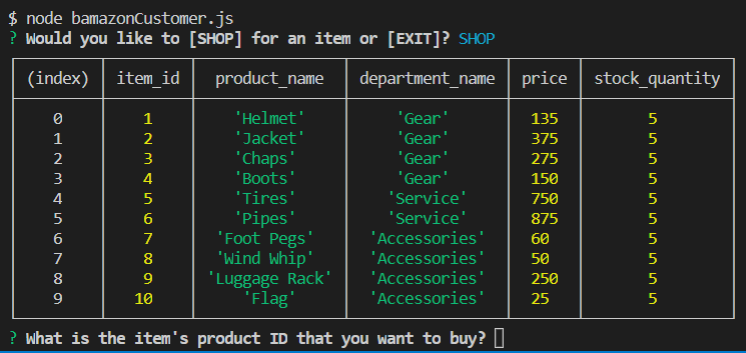
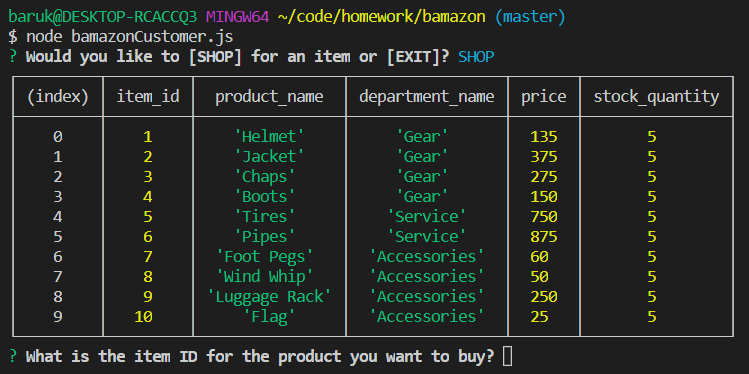
adding final version

Changed region(s): [[0.0, 0.0, 1.0, 1.0], [0.0617, 0.3116, 0.0925, 0.7479]]

diff --git a/bamazonCustomer.js b/bamazonCustomer.js
@@ -52,7 +52,7 @@ function queryItems() {
                 {
                     name: "item",
                     type: "input",
-                    message: "What is the item's product ID that you want to buy?"
+                    message: "What is the item ID for the product you want to buy?"
                 },
                 {
                     name: "quantity",
@@ -75,8 +75,6 @@ function queryItems() {
                     }
                 }
 
-                // console.log(chosenItem);
-
                 // This determines if product quantity is sufficient:
                 if (chosenItem.stock_quantity >= parseInt(answer.quantity)) {
                     // If product quantity is sufficient, this updates the db, notifies the user of successful order placement, then starts over:
@@ -96,11 +94,10 @@ function queryItems() {
                             start();
                         }
                     );
-                    // console.log(query.sql);
                 }
                 else {
                     // If insufficient product quantity, then this notifies the user of insufficient product quantity, apologizes, then starts over:
-                    console.log("We're sorry. Insufficient product quantity. Please select another item.");
+                    console.log("We're sorry. This item is currently out of stock. Please select another item.");
                     // This re-prompts the user to shop or exit:
                     start();
                 }

diff --git a/README.md b/README.md
@@ -1,32 +1,57 @@
 # Node.js & MySQL
 
-### Challenge #1: Customer View (Minimum Requirement)
+### Challenge #1: Customer View
+
 
 ### Overview
 
-In this assignment, I created an Amazon-like storefront CLI (command-line interface or command language interpreter) app called `bamazon` that accepts orders from customers and depletes stock from the storefront's inventory.
+In this assignment, I created an Amazon-like store CLI (command-line interface or command language interpreter) app called `bamazon` that accepts customers' orders and depletes stock from the store's inventory.
+
 
 ### Steps Of Creation:
 
 1. I created a MySQL database called `bamazon`.
 
-2. I created a table inside of that database called `products`.
-
-3. The products table has the following five columns:
+2. In this database I created a table called `products` with the following five columns:
 
    * `item_id` (unique id for each product)
 
-   * `product_name` (name of product)
+   * `product_name`
 
    * `department_name`
 
    * `price` (cost to customer)
 
-   * `stock_quantity` (how much of the product is available in store)
+   * `stock_quantity` (how much of the product is available in the store)
 
-4. I populated this database with 10 different products. (I inserted "mock" data rows into this database and table.)
+3. I inserted "mock" data rows into this table to populate it with the following 10 motorcycle products:
 
-5. I created a Node application called `bamazonCustomer.js`. Running this application first prompts the user: `"Would you like to [SHOP] for an item or [EXIT]?"`
+   * `Helmet`
+
+   * `Jacket`
+
+   * `Chaps`
+
+   * `Boots`
+
+   * `Tires`
+
+   * `Pipes`
+
+   * `Foot Pegs`
+
+   * `Wind Whip`
+
+   * `Luggage Rack`
+
+   * `Flag`
+
+4. I created a Node application called `bamazonCustomer.js`.
+
+
+### Functionality
+
+Running the Node application `bamazonCustomer.js` first prompts the user: `"Would you like to [SHOP] for an item or [EXIT]?"`
 
 `Example: node bamazonCustomer.js`
 
@@ -34,13 +59,6 @@ In this assignment, I created an Amazon-like storefront CLI (command-line interf
 
 ![Example: ](screenshots/menu.png)
 
-   * If the user selects [SHOP], it displays all of the items available for sale with their item_ids, product names, department names, prices, and stock quantities.
-
-`Selection: SHOP`
-
-`Output:`
-
-![Example: ](screenshots/all_products.png)
 
    * If the user selects [EXIT], it exits the program.
 
@@ -50,139 +68,57 @@ In this assignment, I created an Amazon-like storefront CLI (command-line interf
 
 ![Example: ](screenshots/exit.png)
 
-6. The app then prompts the user with two messages:
 
-   * The first message asks the user, `"What is the item's product ID that you want to buy?"`
+   * If the user selects [SHOP], it displays all the items available for sale with their item id, product name, department name, price, and stock quantity.
+
+`Selection: SHOP`
+
+`Output:`
+
+![Example: ](screenshots/all_products.png)
+
+
+The app then prompts the user with two messages:
+
+   * The first message asks the user: `"What is the item ID for the product you want to buy?"`
 
 `Output:`
 
 ![Example: ](screenshots/item_to_buy_msg.png)
 
-   * The second message asks the user, `"How many do you want to buy?"`
 
-`Example Selection: Flags (item_id 10), Quantity 2`
+   * The second message asks the user: `"How many do you want to buy?"`
+
+`Example Selection: Flag (item_id 10), Buy (2)`
 
 `Output:`
 
 ![Example: ](screenshots/quantity_to_buy_msg.png)
 
-7. Once the customer has placed the order, the application checks if the storefront has enough of the product to meet the customer's request.
 
-   * If the storefront has enough of the product, the app processes the customer's order and logs the phrase `"Your order was placed successfully."`
+Once the customer has placed the order, the application checks if the store has enough of the product to meet the customer's request.
 
-   * Once the update processes, the customer is shown the total cost of their purchase.
+   * If the store has enough in stock, the app processes the customer's order and logs the phrase `"Your order was placed successfully."`
 
-   * The SQL database updates to reflect the remaining quantity.
+      * Once the update processes, the app notifies the customer the total cost of their purchase by logging the phrase `"Your total cost is $[]."`
 
-   * The user is then prompted to shop or exit.
+      * The SQL database updates to reflect the remaining product quantity.
+
+      * The user is then prompted to shop or exit.
 
 `Output:`
 
 ![Example: ](screenshots/successful.png)
 
-   * If not, the app logs, `"We're sorry. Insufficient product quantity. Please select another item,"` and then prevents the order from processing.
+
+   * If not, the app logs, `"We're sorry. This item is currently out of stock. Please select another item,"` and then prevents the order from processing.
+
+      * The SQL database shows the current product quantity.
+
+      * The user is then prompted to shop or exit.
+
+`Example Selection: Flag (item_id 10), Buy (2)`
 
 `Output:`
 
 ![Example: ](screenshots/unsuccessful.png)
-
-### Challenge #2: Manager View (Next Level)
-
-* Create a new Node application called `bamazonManager.js`. Running this application will:
-
-  * List a set of menu options:
-
-    * View Products for Sale
-    
-    * View Low Inventory
-    
-    * Add to Inventory
-    
-    * Add New Product
-
-  * If a manager selects `View Products for Sale`, the app should list every available item: the item IDs, names, prices, and quantities.
-
-  * If a manager selects `View Low Inventory`, then it should list all items with an inventory count lower than five.
-
-  * If a manager selects `Add to Inventory`, your app should display a prompt that will let the manager "add more" of any item currently in the store.
-
-  * If a manager selects `Add New Product`, it should allow the manager to add a completely new product to the store.
-
-- - -
-
-* If you finished Challenge #2 and put in all the hours you were willing to spend on this activity, then rest easy! Otherwise continue to the next and final challenge.
-
-- - -
-
-### Challenge #3: Supervisor View (Final Level)
-
-1. Create a new MySQL table called `departments`. Your table should include the following columns:
-
-   * department_id
-
-   * department_name
-
-   * over_head_costs (A dummy number you set for each department)
-
-2. Modify the products table so that there's a product_sales column, and modify your `bamazonCustomer.js` app so that when a customer purchases anything from the store, the price of the product multiplied by the quantity purchased is added to the product's product_sales column.
-
-   * Make sure your app still updates the inventory listed in the `products` column.
-
-3. Create another Node app called `bamazonSupervisor.js`. Running this application will list a set of menu options:
-
-   * View Product Sales by Department
-   
-   * Create New Department
-
-4. When a supervisor selects `View Product Sales by Department`, the app should display a summarized table in their terminal/bash window. Use the table below as a guide.
-
-| department_id | department_name | over_head_costs | product_sales | total_profit |
-| ------------- | --------------- | --------------- | ------------- | ------------ |
-| 01            | Electronics     | 10000           | 20000         | 10000        |
-| 02            | Clothing        | 60000           | 100000        | 40000        |
-
-5. The `total_profit` column should be calculated on the fly using the difference between `over_head_costs` and `product_sales`. `total_profit` should not be stored in any database. You should use a custom alias.
-
-6. If you can't get the table to display properly after a few hours, then feel free to go back and just add `total_profit` to the `departments` table.
-
-   * Hint: You may need to look into aliases in MySQL.
-
-   * Hint: You may need to look into GROUP BYs.
-
-   * Hint: You may need to look into JOINS.
-
-   * **HINT**: There may be an NPM package that can log the table to the console. What's is it? Good question :)
-
-### Reminder: Submission on BCS
-
-* Please submit the link to the Github Repository!
-
-- - -
-
-### Minimum Requirements
-
-Attempt to complete homework assignment as described in instructions. If unable to complete certain portions, please pseudocode these portions to describe what remains to be completed. Adding a README.md as well as adding this homework to your portfolio are required as well and more information can be found below.
-
-- - -
-
-### Create a README.md
-
-Add a `README.md` to your repository describing the project. Here are some resources for creating your `README.md`. Here are some resources to help you along the way:
-
-* [About READMEs](https://help.github.com/articles/about-readmes/)
-
-* [Mastering Markdown](https://guides.github.com/features/mastering-markdown/)
-
-- - -
-
-### Add To Your Portfolio
-
-After completing the homework please add the piece to your portfolio. Make sure to add a link to your updated portfolio in the comments section of your homework so the TAs can easily ensure you completed this step when they are grading the assignment. To receive an 'A' on any assignment, you must link to it from your portfolio.
-
-- - -
-
-### One More Thing
-
-If you have any questions about this project or the material we have covered, please post them in the community channels in slack so that your fellow developers can help you! If you're still having trouble, you can come to office hours for assistance from your instructor and TAs.
-
-**Good Luck!**
